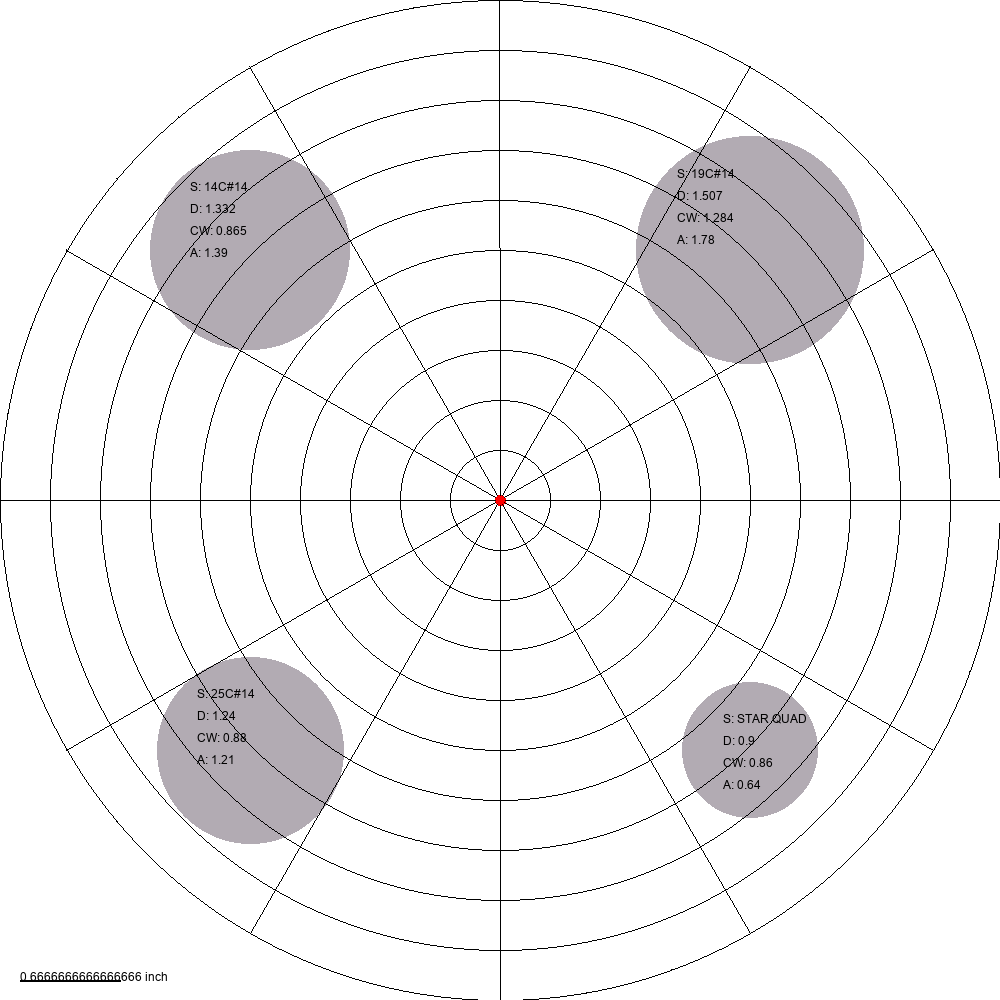
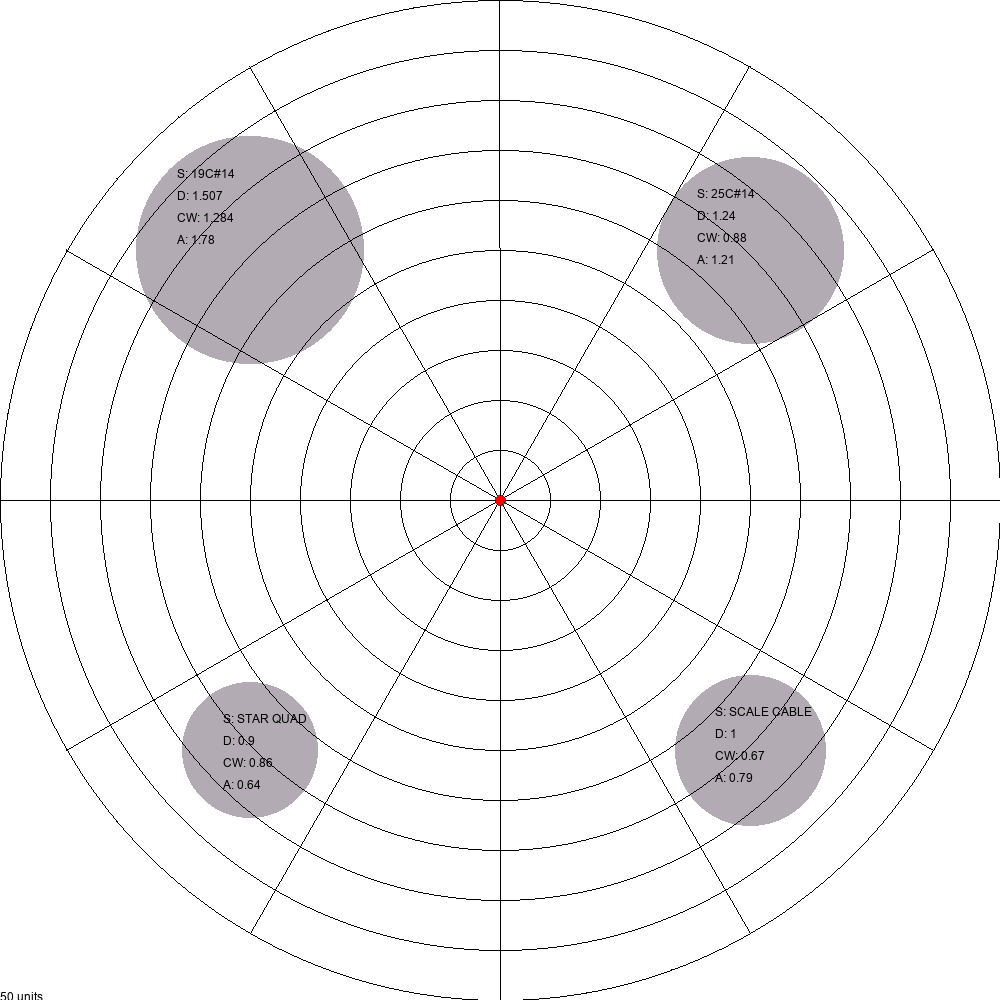
Equidistant grid lines

diff --git a/visualizer.py b/visualizer.py
@@ -1,134 +1,3 @@
-# from file_handler import *
-# from PIL import Image, ImageDraw, ImageFont
-# import math
-#
-#
-# def generate_cable_image(cables):
-#     # Define the image size and other parameters
-#     image_size = (1000, 900)  # Higher resolution image size
-#     text_margin = 10  # Decreased margin
-#     font_size = 12  # Larger font size
-#     offset_x = 40  # Offset in the x-direction
-#     offset_y = 40  # Offset in the y-direction
-#     dpi = (600, 600)  # Higher DPI (dots per inch)
-#
-#     # Calculate the quadrant size based on the image size
-#     quadrant_size = (image_size[0] // 2, image_size[1] // 2)
-#
-#     # Create a new image with a white background
-#     image = Image.new("RGB", image_size, "white")
-#     draw = ImageDraw.Draw(image)
-#
-#     for i, cable in enumerate(cables):
-#         # Calculate the scaled radius based on the cable's diameter
-#         diameter = cable.diameter
-#         scaling_factor = 150  # Increase the scaling factor
-#         cable_radius = diameter * scaling_factor / 2  # Adjust the scaling factor here
-#
-#         # Calculate the coordinates for the center of the quadrant based on the index
-#         center_x = (i % 2) * quadrant_size[0] + quadrant_size[0] // 2
-#         center_y = (i // 2) * quadrant_size[1] + quadrant_size[1] // 2
-#         center = (center_x, center_y)
-#
-#         # Draw the cable as a filled circle
-#         cable_color = "#B2ABB3"  # Darker shade of gray
-#         cable_bbox = (
-#             center[0] - cable_radius,
-#             center[1] - cable_radius,
-#             center[0] + cable_radius,
-#             center[1] + cable_radius,
-#         )
-#         draw.ellipse(cable_bbox, fill=cable_color)
-#
-#         # Create a text label with the cable information
-#         text_x = center_x - cable_radius + offset_x  # Add x-direction offset
-#         text_y = center_y - cable_radius - text_margin + offset_y  # Add y-direction offset
-#         text_color = "black"
-#         font = ImageFont.truetype("arial.ttf", font_size)  # Set the font size
-#         text_lines = [
-#             f"S: {cable.size}",
-#             f"D: {cable.diameter}",
-#             f"CW: {cable.pounds_per_foot}",
-#             f"A: {cable.cross_sectional_area}",
-#         ]
-#         for line in text_lines:
-#             draw.text((text_x, text_y), line, fill=text_color, font=font)
-#             text_y += font_size + 10  # Adjust the vertical spacing
-#
-#     # Overlay polar coordinate graph
-#     polar_graph_radius = min(image_size) // 2
-#     polar_graph_center = (image_size[0] // 2, image_size[1] // 2)
-#
-#     # Draw red dot in the center
-#     dot_radius = 5
-#     draw.ellipse(
-#         (
-#             polar_graph_center[0] - dot_radius,
-#             polar_graph_center[1] - dot_radius,
-#             polar_graph_center[0] + dot_radius,
-#             polar_graph_center[1] + dot_radius,
-#         ),
-#         fill="red",
-#         outline="red",
-#     )
-#
-#     # Draw lines extending from the center
-#     num_lines = 12  # Adjust the number of lines
-#     for i in range(num_lines):
-#         angle = 2 * math.pi * i / num_lines
-#         line_start = (
-#             polar_graph_center[0] + dot_radius * math.cos(angle),
-#             polar_graph_center[1] + dot_radius * math.sin(angle),
-#         )
-#         line_end = (
-#             polar_graph_center[0] + polar_graph_radius * math.cos(angle),
-#             polar_graph_center[1] + polar_graph_radius * math.sin(angle),
-#         )
-#         draw.line([line_start, line_end], fill="black", width=1)
-#
-#     # Draw grid lines
-#     num_grid_lines = 10  # Adjust the number of grid lines
-#     for i in range(num_grid_lines):
-#         radius = polar_graph_radius * (i + 1) / num_grid_lines
-#         draw.ellipse(
-#             (
-#                 polar_graph_center[0] - radius,
-#                 polar_graph_center[1] - radius,
-#                 polar_graph_center[0] + radius,
-#                 polar_graph_center[1] + radius,
-#             ),
-#             outline="black",
-#             width=1,
-#         )
-#
-#     for theta in range(0, 360, 10):
-#         theta_rad = math.radians(theta)
-#         line_start = (
-#             polar_graph_center[0] + polar_graph_radius * math.cos(theta_rad),
-#             polar_graph_center[1] + polar_graph_radius * math.sin(theta_rad),
-#         )
-#         line_end = (
-#             polar_graph_center[0] + polar_graph_radius * math.cos(theta_rad),
-#             polar_graph_center[1] + polar_graph_radius * math.sin(theta_rad),
-#         )
-#         draw.line([line_start, line_end], fill="black", width=1)
-#
-#     # Draw scale in the bottom left corner
-#     scale_length = 100
-#     scale_offset = 20
-#     scale_start = (scale_offset, image_size[1] - scale_offset)
-#     scale_end = (scale_offset + scale_length, image_size[1] - scale_offset)
-#     draw.line([scale_start, scale_end], fill="black", width=2)
-#     draw.text((scale_start[0], scale_start[1] - 10), f"{scale_length} units", fill="black", font=font)
-#
-#     # Save the image to a file or display it
-#     image.save("cable_image.png", dpi=dpi)  # Higher resolution
-#     image.show()
-#
-#
-# get_cable_sizes()
-# generate_cable_image(cable_sizes[7:11])  # Extract cables from indices 7 to 10 (inclusive)
-
 from file_handler import *
 from PIL import Image, ImageDraw, ImageFont
 import math
@@ -205,8 +74,9 @@ def generate_cable_image(cables):
 
     # Draw lines extending from the center
     num_lines = 12  # Adjust the number of lines
+    angle_spacing = 2 * math.pi / num_lines  # Calculate the angle spacing between lines
     for i in range(num_lines):
-        angle = 2 * math.pi * i / num_lines
+        angle = i * angle_spacing
         line_start = (
             polar_graph_center[0] + dot_radius * math.cos(angle),
             polar_graph_center[1] + dot_radius * math.sin(angle),
@@ -219,8 +89,9 @@ def generate_cable_image(cables):
 
     # Draw grid lines
     num_grid_lines = 10  # Adjust the number of grid lines
+    radius_spacing = polar_graph_radius / num_grid_lines  # Calculate the spacing between grid lines
     for i in range(num_grid_lines):
-        radius = polar_graph_radius * (i + 1) / num_grid_lines
+        radius = (i + 1) * radius_spacing
         draw.ellipse(
             (
                 polar_graph_center[0] - radius,
@@ -245,13 +116,12 @@ def generate_cable_image(cables):
         draw.line([line_start, line_end], fill="black", width=1)
 
     # Draw scale in the bottom left corner
-    scale_length_pixels = 100
-    scale_length_inches = scale_length_pixels / scaling_factor  # Convert pixels to inches
-    scale_offset = 20
+    scale_length = 50
+    scale_offset = 0
     scale_start = (scale_offset, image_size[1] - scale_offset)
-    scale_end = (scale_offset + scale_length_pixels, image_size[1] - scale_offset)
+    scale_end = (scale_offset + scale_length, image_size[1] - scale_offset)
     draw.line([scale_start, scale_end], fill="black", width=2)
-    draw.text((scale_start[0], scale_start[1] - 10), f"{scale_length_inches} inch", fill="black", font=font)
+    draw.text((scale_start[0], scale_start[1] - 10), f"{scale_length} units", fill="black", font=font)
 
     # Save the image to a file or display it
     image.save("cable_image.png", dpi=dpi)  # Higher resolution
@@ -259,5 +129,4 @@ def generate_cable_image(cables):
 
 
 get_cable_sizes()
-# generate_cable_image(cable_sizes[7:11])  # Extract cables from indices 7 to 10 (inclusive)
-generate_cable_image(cable_sizes[7:11])
+generate_cable_image(cable_sizes[8:12])  # Extract cables from indices 7 to 10 (inclusive)
